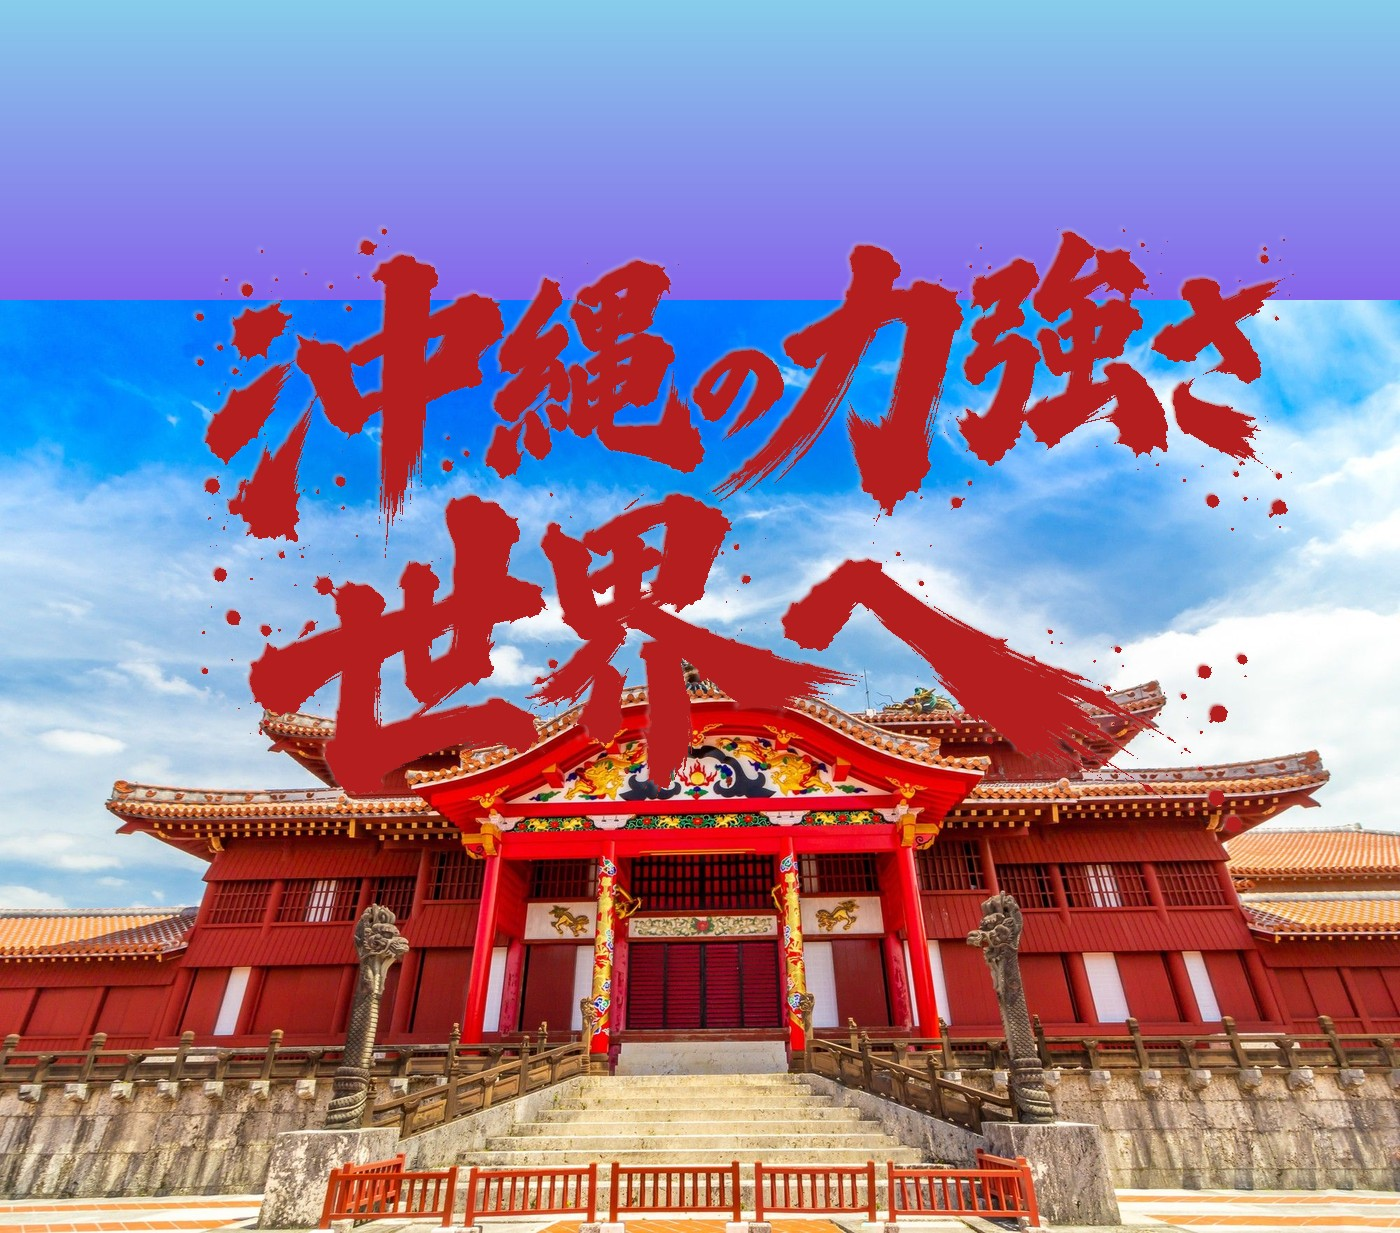
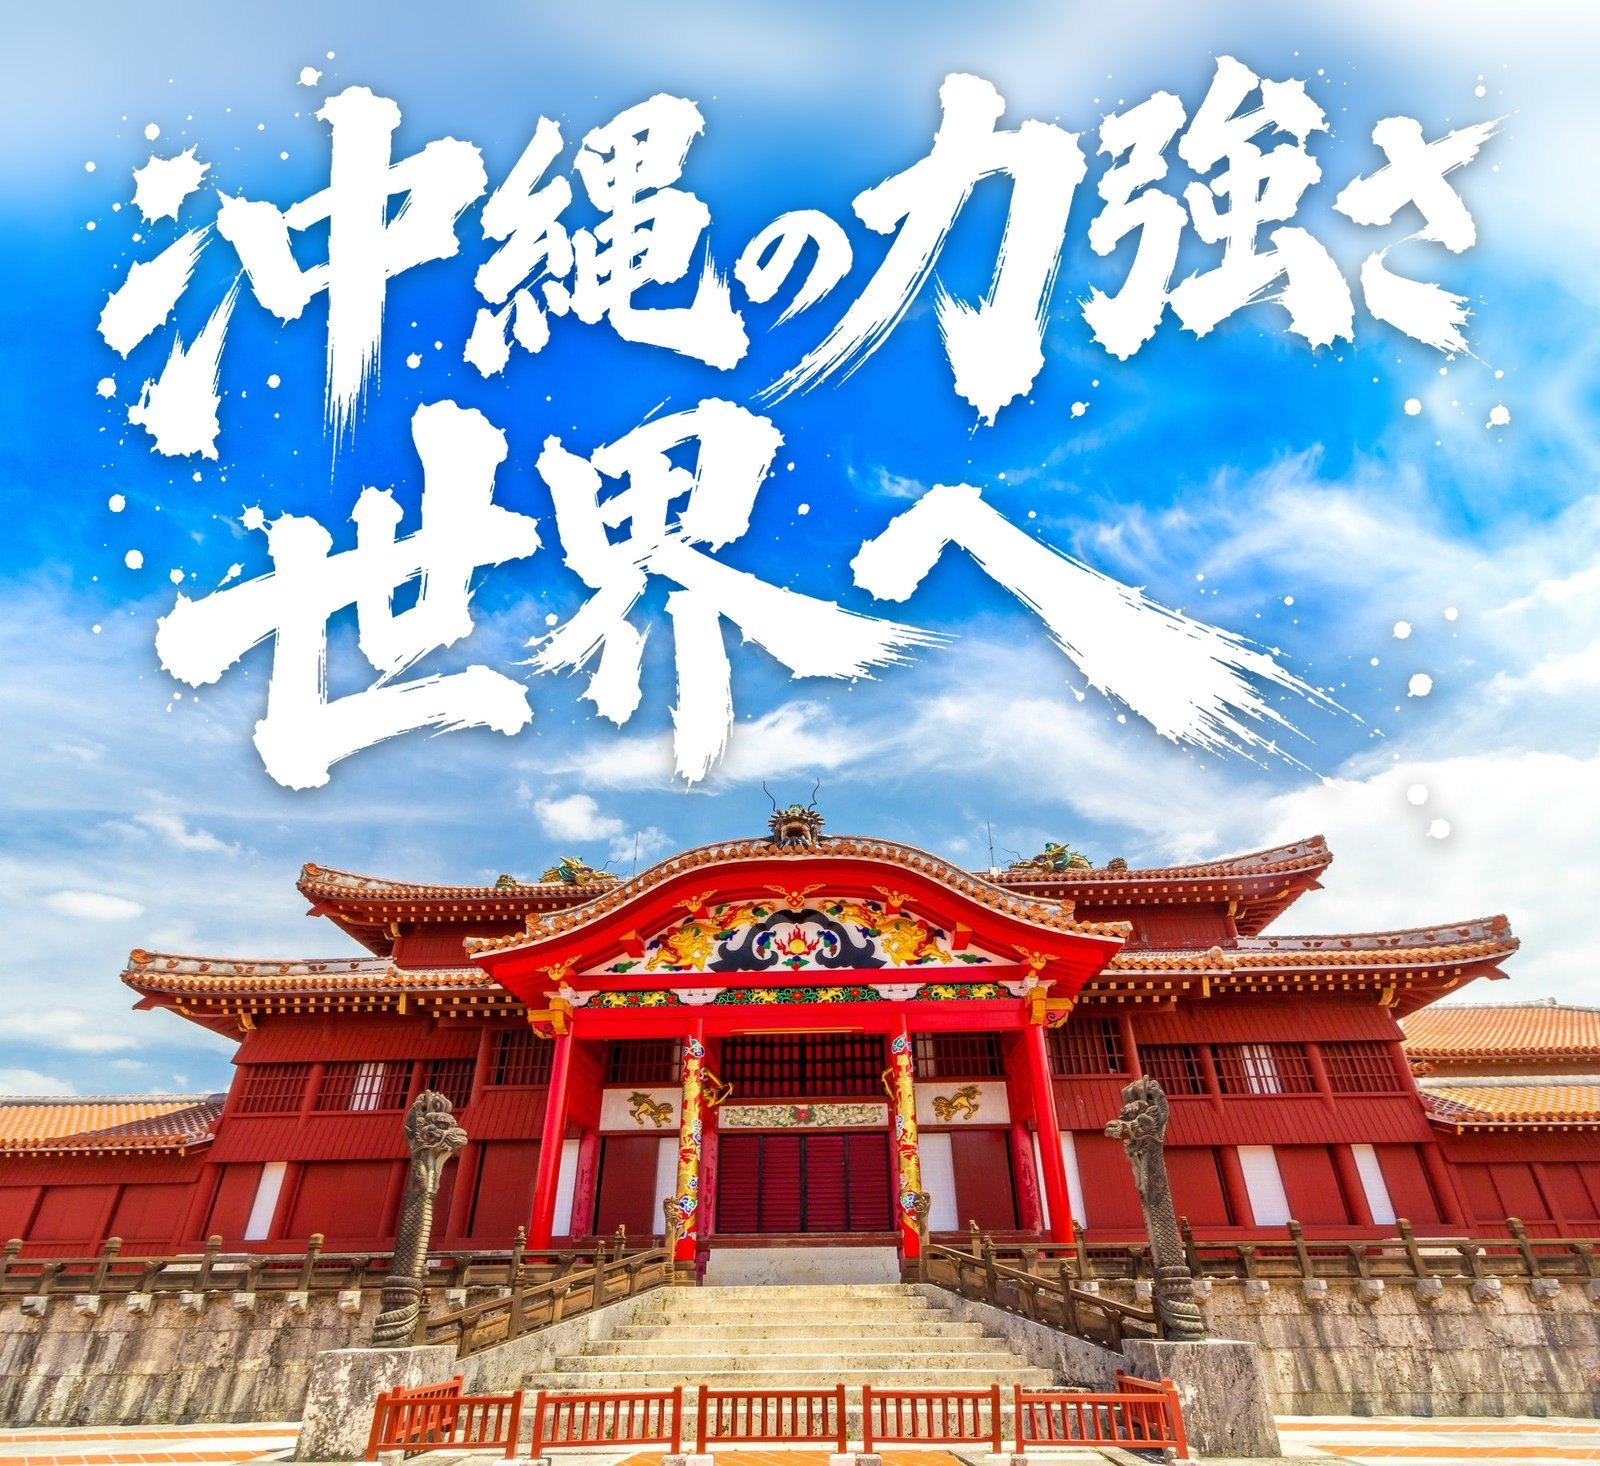
Plan A Hero: seamless sky, larger white calligraphy placed higher
Extend the sky by mirroring and blurring the photo's own top edge so the
added area matches the real sky, and render the calligraphy in white at
90% width, sitting just above the castle roof.

Claude-Session: https://claude.ai/code/session_016UFDXVuYFtAtTGYqmXNcP3

diff --git a/site/go/plan-a/styles.css b/site/go/plan-a/styles.css
@@ -261,7 +261,7 @@ a:hover {
     position: relative;
     width: 100vw;
     margin-left: calc(50% - 50vw);
-    aspect-ratio: 1400 / 1233;
+    aspect-ratio: 1600 / 1466;
     background-image: url('assets/images/hero-shuri-calligraphy.jpg');
     background-size: cover;
     background-position: center top;
